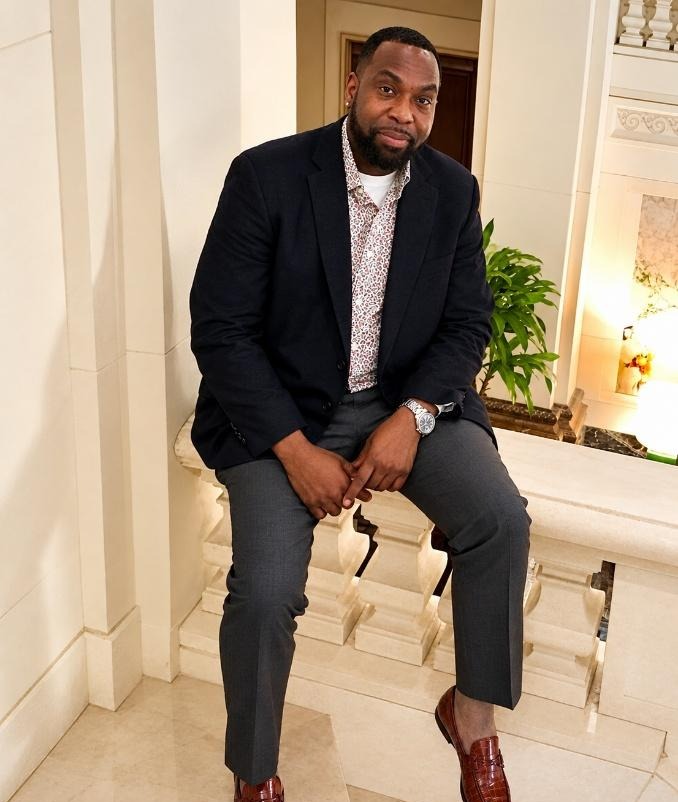
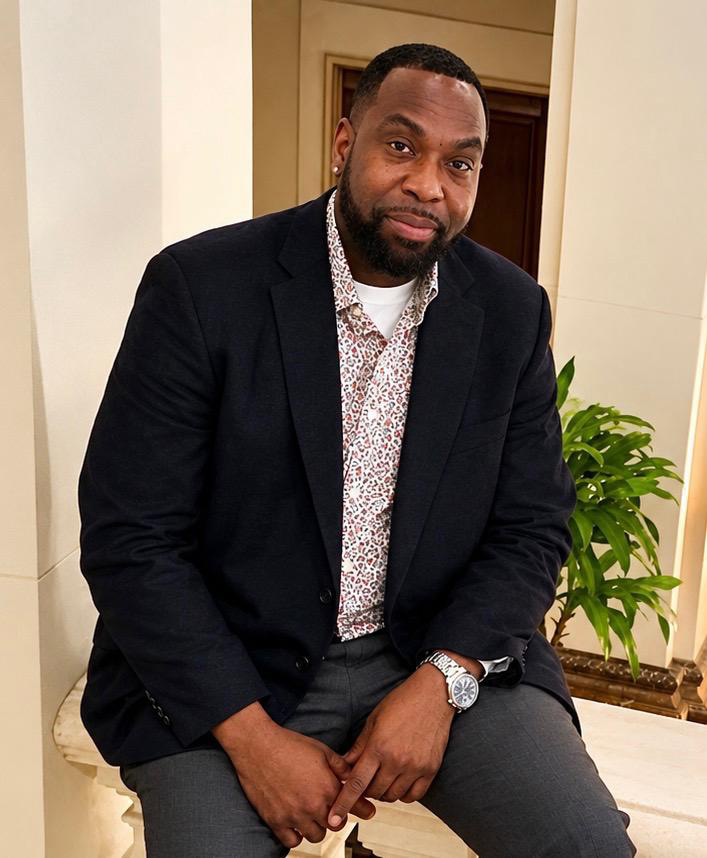
Add pillar images to home page and update mission wording
- Each home pillar now shows an image above its heading
- Mission text changed from "remove" to "limit financial barriers"
- Updated Lee West team photo
- Suppress body hydration warnings caused by browser extensions

diff --git a/src/content/home.ts b/src/content/home.ts
@@ -20,18 +20,30 @@ export const homeContent: HomeContent = {
     {
       title: "Education",
       body: "We provide financial assistance for the parts of an international education that scholarships usually leave out.",
+      image: {
+        src: "/images/pillars/education.webp",
+        alt: "Students in a classroom facing a teacher who stands in front of a world map and international flags.",
+      },
     },
     {
       title: "Global Citizenship",
       body: "Students return with intercultural skills and a working understanding of a region most of their peers have only read about.",
+      image: {
+        src: "/images/pillars/global-citizenship.webp",
+        alt: "Many hands from different people holding a globe together.",
+      },
     },
     {
       title: "Equity and Access",
       body: "Study abroad has long tracked family income. We award on need so that it stops doing so.",
+      image: {
+        src: "/images/pillars/equity-and-access.webp",
+        alt: "A stack of language books — Spanish, French, Arabic, Mandarin Chinese and Portuguese — beside an open notebook and pen.",
+      },
     },
   ],
   missionPullQuote:
-    "To remove financial barriers to global education by providing financial and educational assistance to underserved high school and college students.",
+    "To limit financial barriers to global education by providing financial and educational assistance to underserved high school and college students.",
   connectHeading: "Get in touch", // draft — pending review
   connectBody:
     "Questions about our programs, or interested in supporting a student? We'd like to hear from you.", // draft — pending review

diff --git a/src/app/page.tsx b/src/app/page.tsx
@@ -7,6 +7,7 @@ import {
 } from "@/content";
 import { Container } from "@/components/Container";
 import { Section } from "@/components/Section";
+import { ContentImage } from "@/components/ContentImage";
 import { ProgramCard } from "@/components/ProgramCard";
 import { EventCard } from "@/components/EventCard";
 
@@ -48,12 +49,13 @@ export default async function HomePage() {
         </Container>
       </section>
 
-      {/* Pillars — prose columns only: a heading and a paragraph, no icons,
-          no cards, no borders, no shadows, no equal-height boxes. */}
+      {/* Pillars — an image, a heading and a paragraph per column; no icons,
+          cards, borders, shadows, or equal-height boxes. */}
       <Section rule>
         <div className="grid gap-10 sm:grid-cols-3 sm:gap-8">
           {home.pillars.map((pillar) => (
             <div key={pillar.title}>
+              <ContentImage image={pillar.image} className="mb-5 aspect-[3/2] rounded-sm" />
               <h2 className="font-display text-xl text-gold-deep">{pillar.title}</h2>
               <p className="mt-3 max-w-[38ch] text-ink">{pillar.body}</p>
             </div>

diff --git a/src/content/about.ts b/src/content/about.ts
@@ -15,7 +15,7 @@ export const aboutContent: AboutContent = {
     alt: "A smiling young man in a yellow sweater talking on his phone in front of an open laptop.",
   },
   mission:
-    "To remove financial barriers to global education by providing financial and educational assistance to underserved high school and college students enabling access to learning experiences that strengthen career readiness, global competency, and long-term economic mobility.",
+    "To limit financial barriers to global education by providing financial and educational assistance to underserved high school and college students enabling access to learning experiences that strengthen career readiness, global competency, and long-term economic mobility.",
   purpose:
     "To expand equitable access to transformative educational opportunities by ensuring all students from economic backgrounds can participate in international academic learning experiences that support personal growth, workforce preparedness, professional advancement.",
   vision:

diff --git a/src/app/layout.tsx b/src/app/layout.tsx
@@ -52,7 +52,9 @@ export default async function RootLayout({ children }: LayoutProps<"/">) {
       lang="en"
       className={`${newsreader.variable} ${karla.variable} h-full antialiased`}
     >
-      <body className="min-h-full flex flex-col">
+      {/* Browser extensions (Grammarly, password managers) add attributes to
+          <body> before hydration; without this React logs a mismatch in dev. */}
+      <body className="min-h-full flex flex-col" suppressHydrationWarning>
         <SiteHeader settings={settings} />
         <main className="flex-1">{children}</main>
         <SiteFooter settings={settings} />

diff --git a/src/content/site.ts b/src/content/site.ts
@@ -16,5 +16,5 @@ export const siteSettings: SiteSettings = {
   socialLinks: [],
   donationUrl: null,
   footerNote:
-    "To remove financial barriers to global education by providing financial and educational assistance to underserved high school and college students.", // draft — pending review; reused verbatim from the home mission pull quote
+    "To limit financial barriers to global education by providing financial and educational assistance to underserved high school and college students.", // draft — pending review; reused verbatim from the home mission pull quote
 };

diff --git a/src/content/types.ts b/src/content/types.ts
@@ -32,6 +32,7 @@ export interface SiteSettings {
 export interface Pillar {
   title: string;
   body: string;
+  image: ContentImage;
 }
 
 export interface HomeContent {
